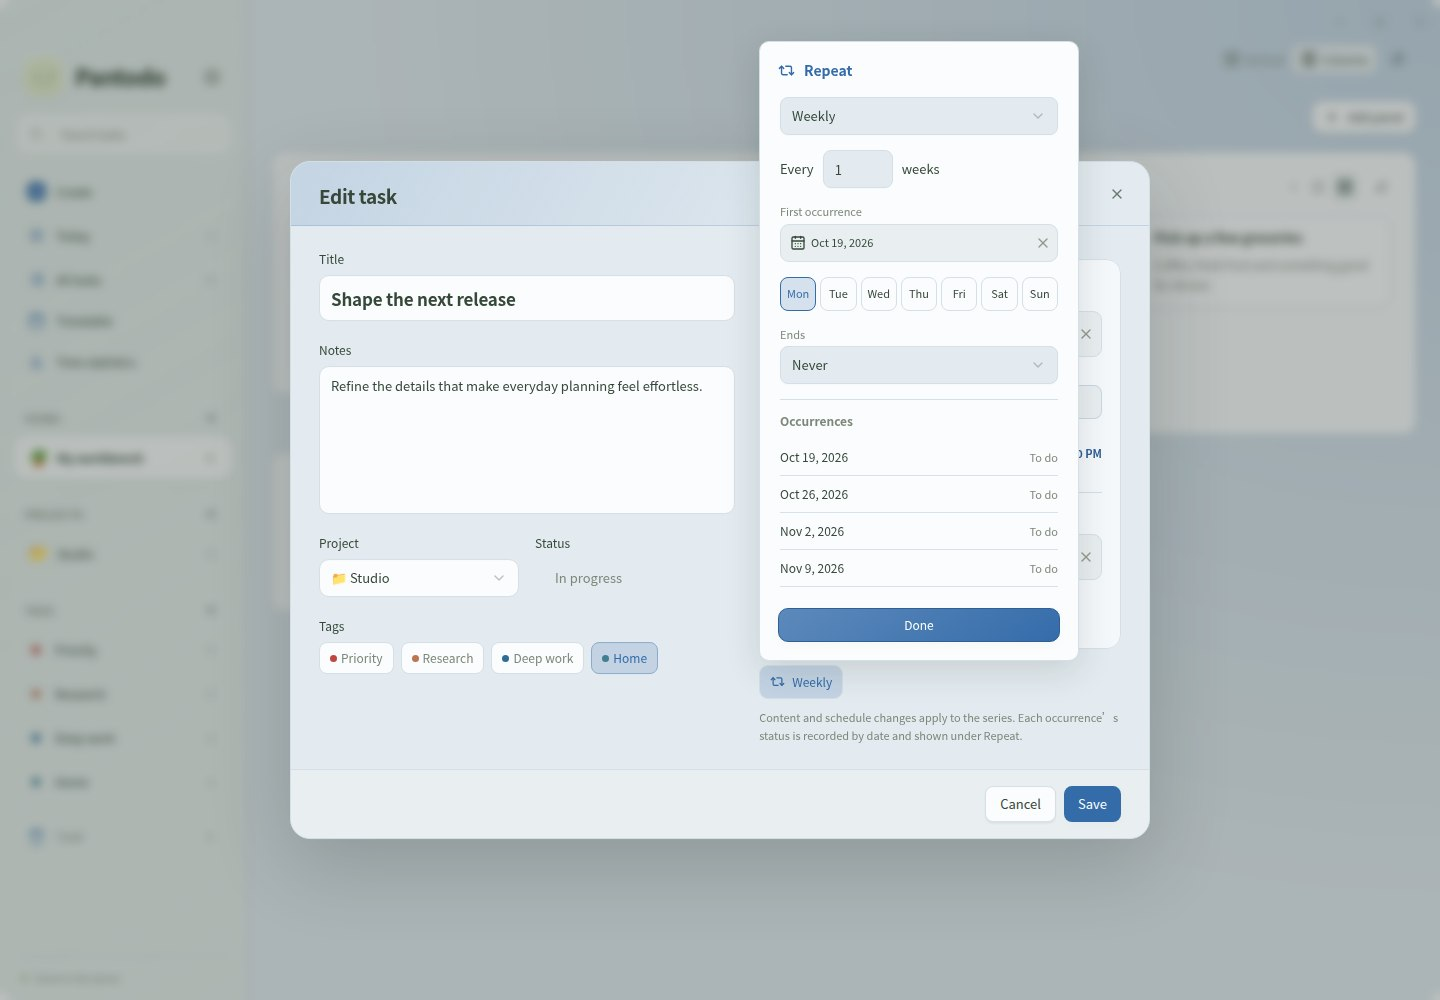
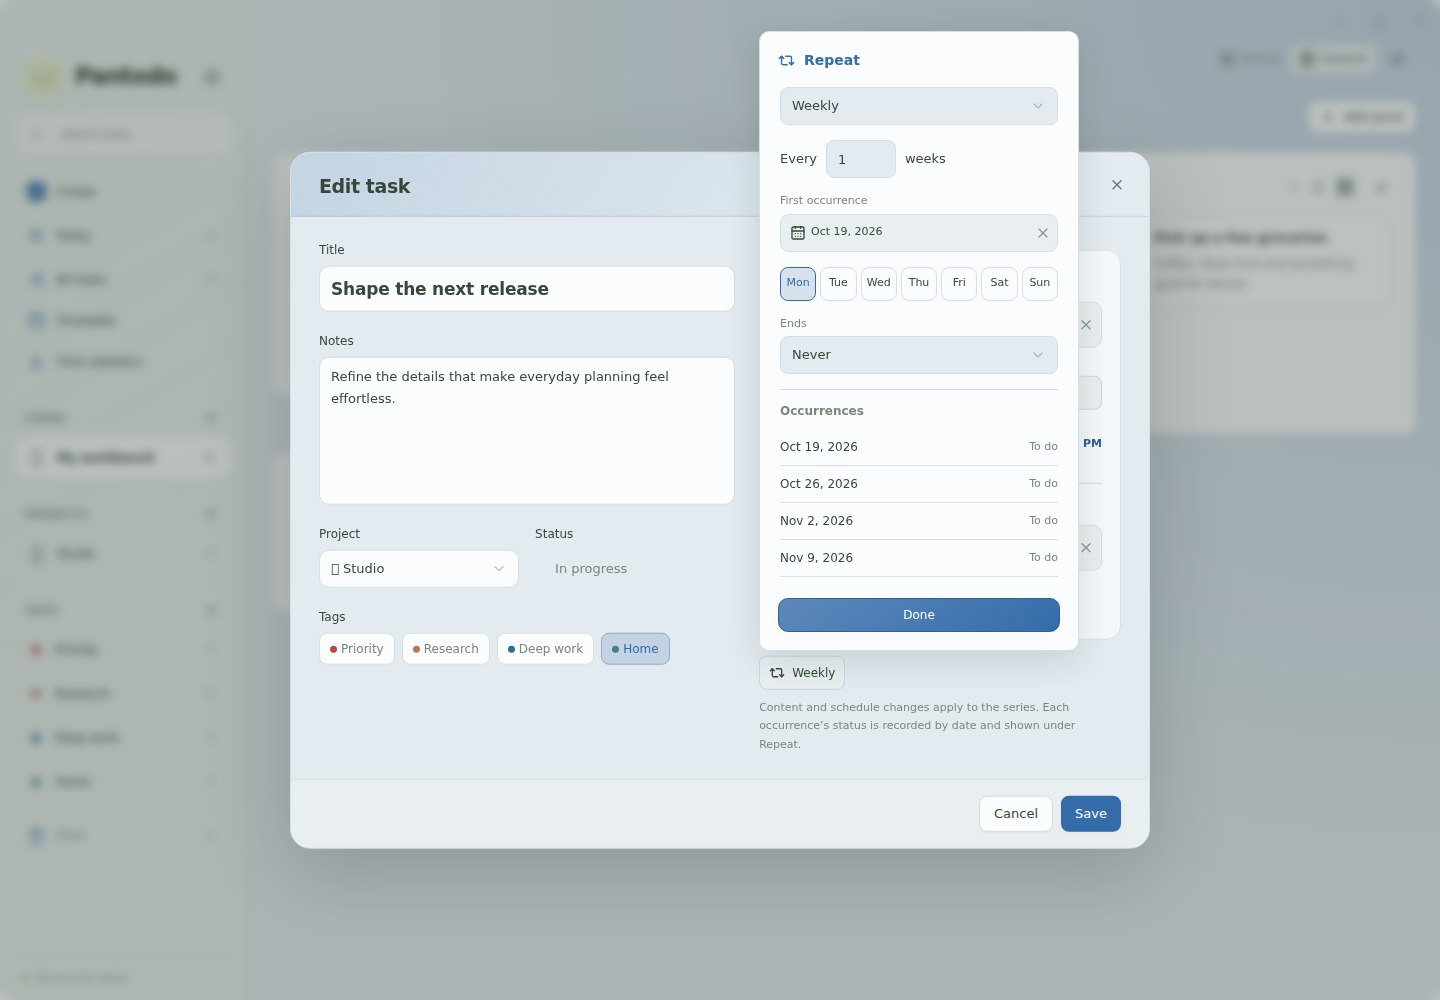
Release 0.6.12: use the shared borderless capture property for Repeat

diff --git a/e2e/recurrence.spec.ts b/e2e/recurrence.spec.ts
@@ -103,3 +103,16 @@ test('Repeat opens without selecting a field while keyboard navigation remains a
   await page.keyboard.press('Tab')
   await expect(page.getByRole('combobox', { name: '重复频率', exact: true })).toBeFocused()
 })
+
+test('an unconfigured Repeat uses the same borderless appearance as other capture properties', async ({
+  page,
+}) => {
+  const repeat = page.locator('.capture-options .repeat-trigger')
+  await expect(repeat).toHaveAttribute('data-filled', 'false')
+  await expect(repeat).toHaveCSS('border-top-color', 'rgba(0, 0, 0, 0)')
+  await expect(repeat).toHaveCSS('background-color', 'rgba(0, 0, 0, 0)')
+  await repeat.click()
+  await choose(page, page.getByRole('combobox', { name: '重复频率', exact: true }), 'weekly')
+  await page.locator('.repeat-popover').getByRole('button', { name: '完成', exact: true }).click()
+  await expect(repeat).toHaveAttribute('data-filled', 'true')
+})

diff --git a/src/components/RecurrenceFields.tsx b/src/components/RecurrenceFields.tsx
@@ -1,3 +1,4 @@
+import { Button } from './ui/button'
 import { useNow } from '@/hooks'
 import { addYears, startOfDay } from 'date-fns'
 import { STATUS_LABEL_KEYS } from '@/domain/display'
@@ -66,16 +67,18 @@ export function RecurrenceFields({
   return (
     <Popover open={open} onOpenChange={setOpen}>
       <PopoverTrigger asChild>
-        <button
+        <Button
+          variant="ghost"
           type="button"
-          className={'repeat-trigger capture-option' + (value ? ' active' : '')}
+          className="capture-property repeat-trigger"
+          data-filled={!!value}
           aria-label={t('repeat.title')}
         >
           <Repeat2 size={15} />
           <span>
             {value ? t(('repeat.' + value.frequency) as 'repeat.daily') : t('repeat.none')}
           </span>
-        </button>
+        </Button>
       </PopoverTrigger>
       <PopoverContent
         className="repeat-popover"

diff --git a/src/styles/product.css b/src/styles/product.css
@@ -873,22 +873,6 @@ body,
   }
 }
 
-.repeat-trigger {
-  display: inline-flex;
-  align-items: center;
-  gap: 7px;
-  min-height: 34px;
-  padding: 7px 10px;
-  border: 1px solid var(--border);
-  border-radius: 9px;
-  font-size: 12px;
-  color: var(--text-muted);
-  background: var(--surface-strong);
-}
-.repeat-trigger.active {
-  color: var(--accent);
-  background: var(--accent-soft);
-}
 .repeat-popover {
   width: 320px;
   max-width: calc(100vw - 24px);

diff --git a/docs/RELEASE-NOTES.md b/docs/RELEASE-NOTES.md
@@ -1,7 +1,6 @@
-# Pantodo 0.6.11
+# Pantodo 0.6.12
 
-- Repeat 打开时不再默认聚焦第一个选择框；保留键盘 Tab 导航与焦点返回。
-- 任务编辑器中的 Status 改为只读，保存内容、计划和规则时不会改写任务或 occurrence 的状态。
-- Repeat 新增按日期排列的各次重复记录，独立展示待办、进行中、已完成和已跳过状态；仍只保存一条任务及其按日期记录的周期状态。
+- 删除 Repeat 按钮的默认常驻边框与底色，改用和 Time、Due、Project、Tags 相同的属性按钮。仅在实际配置重复规则后显示已配置状态。
+- 增加创建页默认边框与底色的浏览器回归检查。
 
 Installers are published only after checks, browser workflows and all desktop builds pass.
